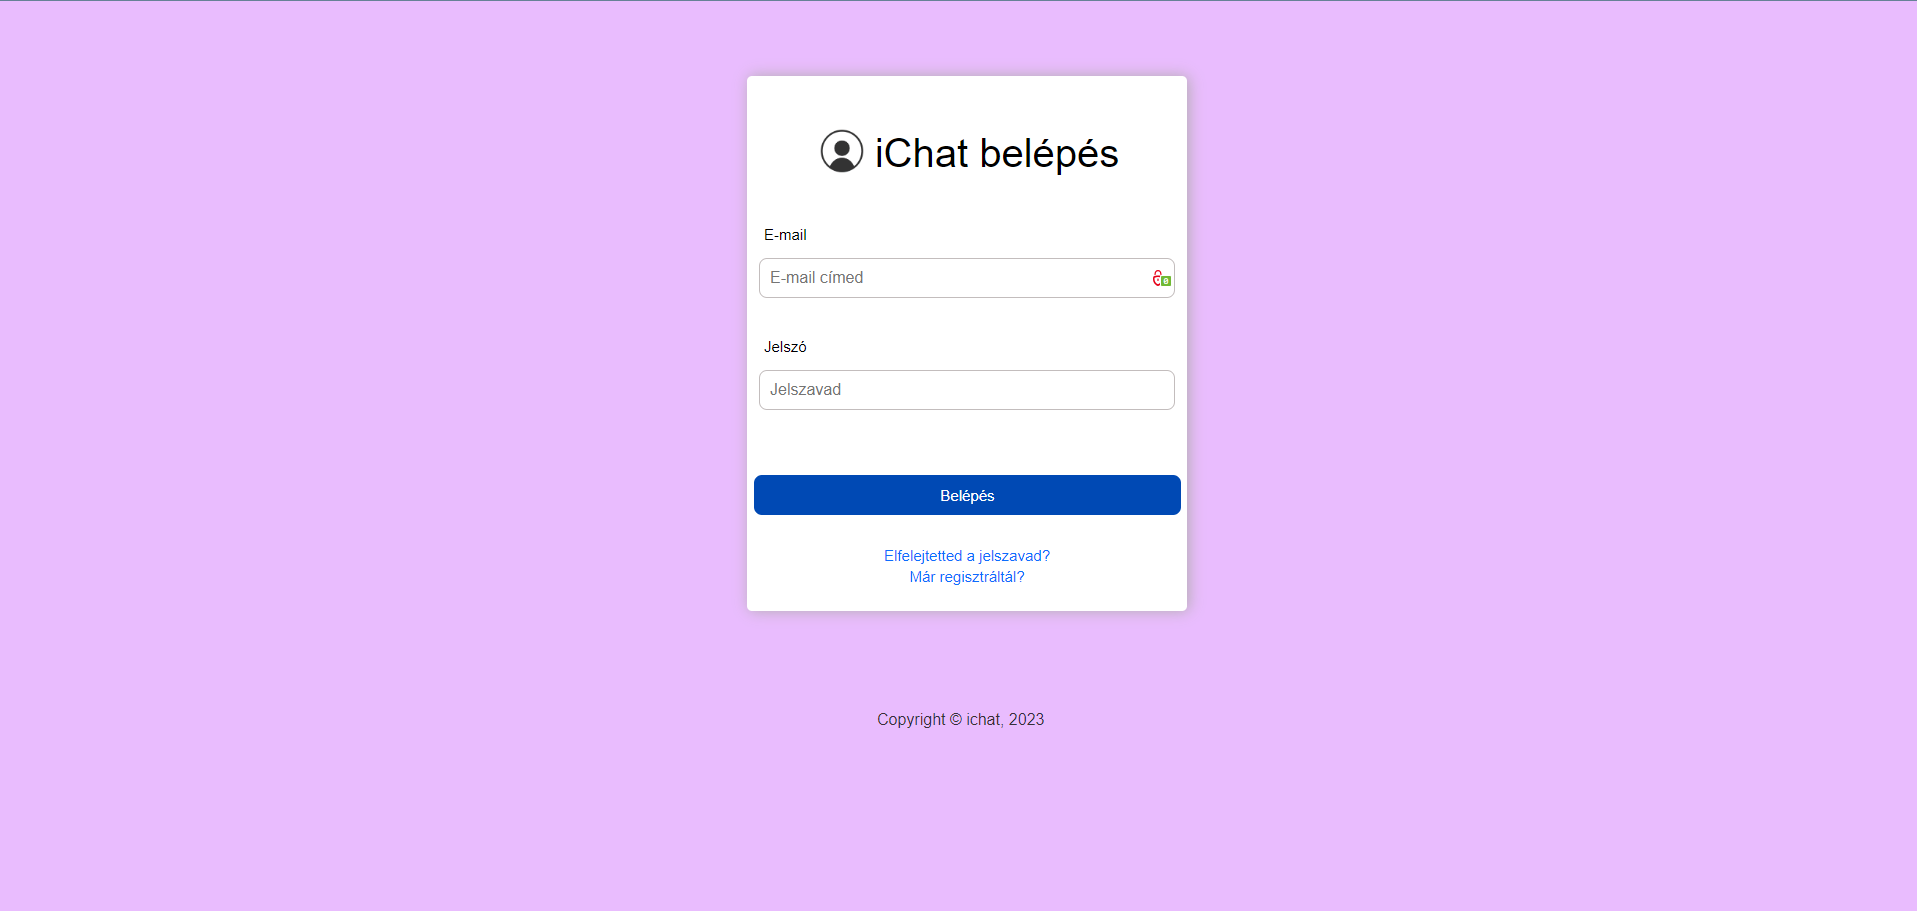
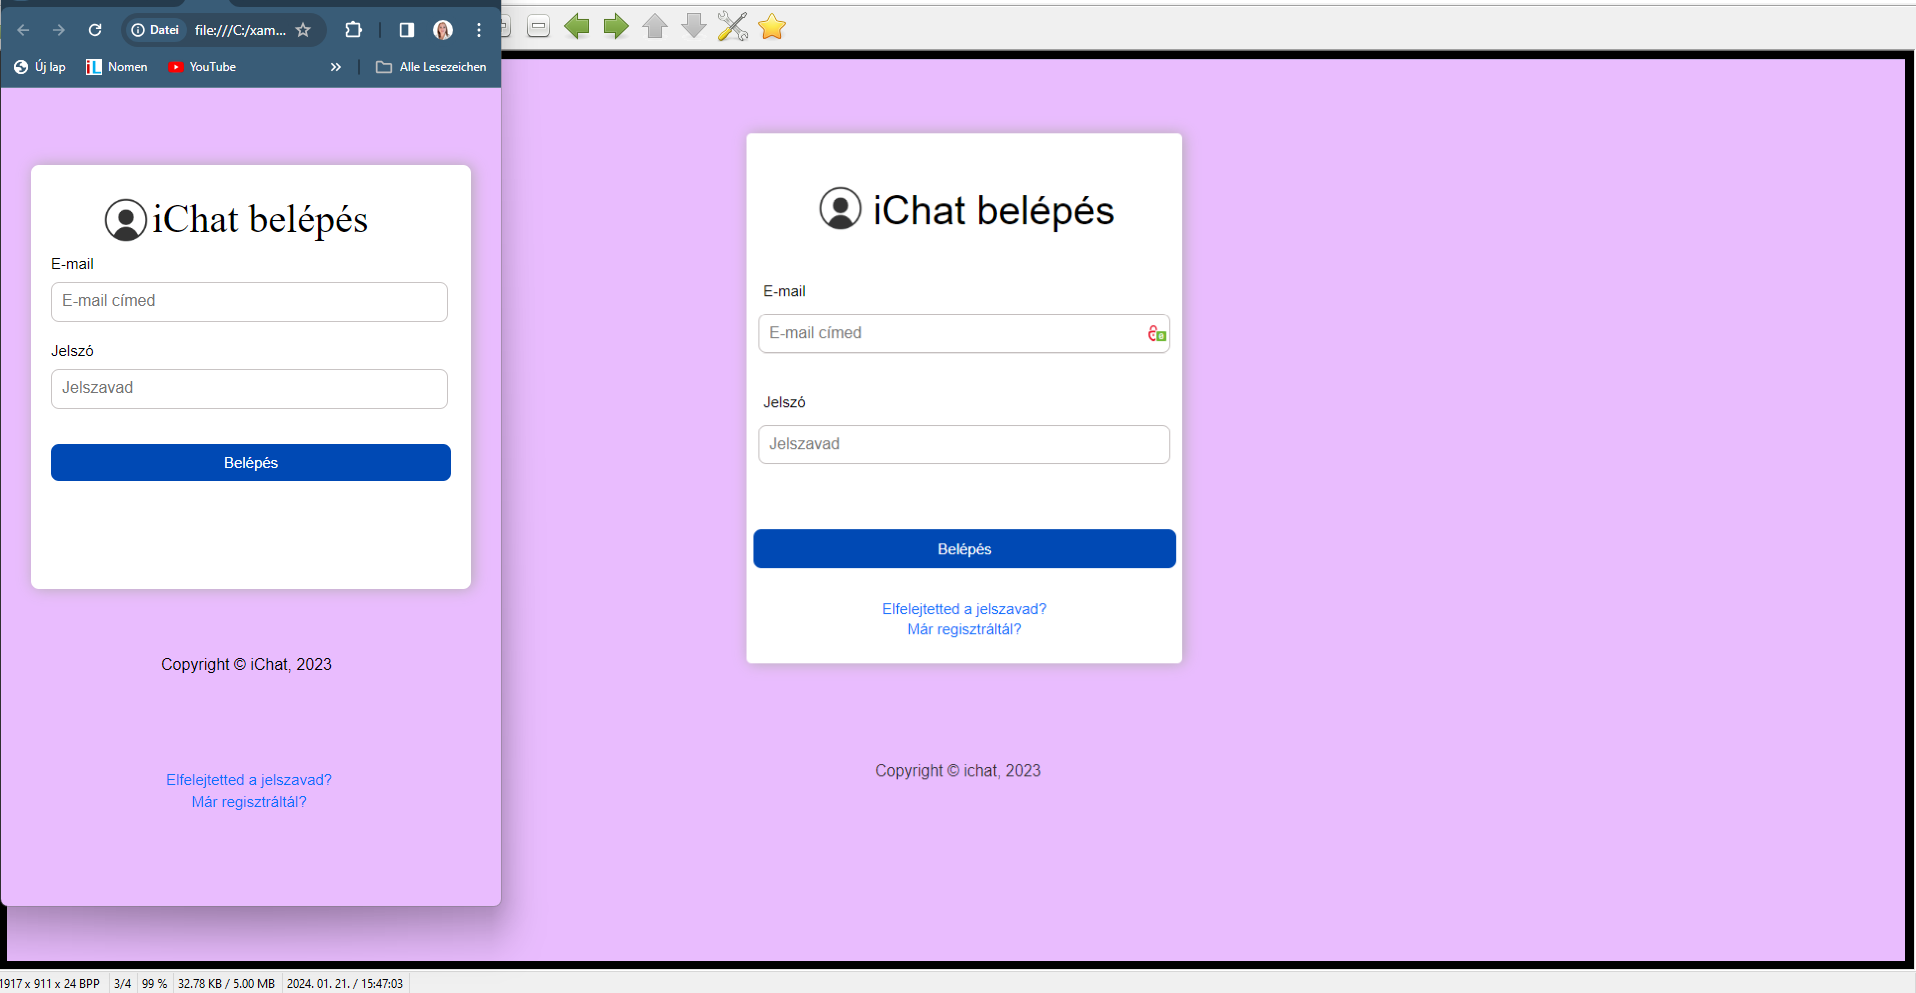
add complett korrection

diff --git a/login.css b/login.css
@@ -13,21 +13,23 @@ body{
     padding:2px;
     background:#E9BCFE;
     background-size: cover;
-    padding-top:60px;
-    padding-bottom:290px;
+    padding-top:70px;
+    padding-bottom:310px;
 }
 .container{
     height: 97%;
     max-width: 440px;
     width: 100%;
+    border-radius: 8px;
+    box-shadow:2px 0 15px 0 rgb(176, 172, 172);
     background: #fff;
     padding: 20px;  
     margin: 0 28px;  
-    padding-right:5px;  
+    padding-right:2px;  
     
 }
 .form-title{
-    margin-top:25px;
+    margin-top:20px;
     font-weight: 100;
     padding-bottom: 40px; 
     padding-top:30px;
@@ -38,15 +40,20 @@ h6{
     font-size: 40px;
     text-align: center;
 }
-.main-user-info{
-    display: flex;
-    flex-wrap: wrap;
-    justify-content: space-between;
-    padding: 20px 0
+.container .logo {
+    position: relative;
+    height: 100px;
 }
-.main-user-box:nth-child(2n){
-    justify-content: end;
+.container .logo img {
+    position: absolute;
+    top: 70%;
+    width: 50px;
+    height: 50px;
+    margin:0 0 0 50px;
+    transform: translateY(-80%);  
 }
+
+
 .user-input-box{
     display: flex;
     flex-wrap: wrap;
@@ -67,14 +74,14 @@ h6{
     width: 95%;
     padding: 0 10px;
     border-radius: 8px;
-    border-color: rgb(143, 140, 140);
-    border:0.5px solid  rgb(143, 140, 140) ;
-    border-left:0.5px solid rgb(143, 140, 140);
+    border-color: rgb(201, 196, 196);
+    border:0.5px solid  rgb(201, 196, 196);
+    border-left:0.5px solid rgb(201, 196, 196);
     
 }
 
 .form-submit-btn{
-    margin-top: 40px; 
+    margin-top: 30px; 
 }
 .form-button-btn input{
     display: inline-block;
@@ -90,9 +97,9 @@ h6{
 }
 .more-details{
     position:absolute;
-    margin-top:280px;
+    margin-top:10px;
     font-size: 15px;
-    margin-left:100px;
+    margin-left:110px;
     text-align: center;
     justify-content: center;
     padding:5px;
@@ -105,13 +112,28 @@ h6{
 .second{
     margin:5px;
 }
+.footer{
+    position: relative;
+    padding-top:150px;
+    padding-left:110px;
+}
 @media(max-width: 600px){
     .conatiner{
         min-width: 280px;
         overflow: auto;
     }
+    .form-title{
+        margin-top:-20px;
+        
+
+    }
+    .main-user-info{
+        margin-top: -20px;
+        width: 100%;
+    }
+
     .user-input-box{
-        margin-bottom: 20px;
+        margin-bottom: -10px;
         width: 100%;
     }
     
@@ -120,5 +142,7 @@ h6{
         max-height: 380px;
         overflow: auto;
     }
-   
+   .more-details{
+        margin-top:260px;
+   }
 }

diff --git a/reglap.css b/reglap.css
@@ -65,9 +65,9 @@ h6{
     width: 95%;
     padding: 0 10px;
     border-radius: 8px;
-    border-color: rgb(143, 140, 140);
-    border:0.5px solid  rgb(143, 140, 140) ;
-    border-left:0.5px solid rgb(143, 140, 140);
+    border-color: rgb(201, 196, 196);
+    border:0.5px solid  rgb(201, 196, 196) ;
+    border-left:0.5px solid rgb(201, 196, 196);
     
 }
 select {
@@ -75,9 +75,9 @@ select {
     width: 95%;
     padding: 0 10px;
     border-radius: 8px;
-    border-color: rgb(143, 140, 140);
-    border:0.5px solid  rgb(143, 140, 140) ;
-    border-left:0.5px solid rgb(143, 140, 140);
+    border-color: rgb(201, 196, 196);
+    border:0.5px solid  rgb(201, 196, 196) ;
+    border-left:0.5px solid rgb(201, 196, 196);
 }
 .gender-title{
     margin-top: 5px;
@@ -120,6 +120,9 @@ select {
 .more-details a{
     text-decoration: none;
     color:#0D6EFD;
+}
+.second{
+    margin:5px;
 }
 @media(max-width: 600px){
     .conatiner{

diff --git a/login.html b/login.html
@@ -10,8 +10,12 @@
 </head>
 <body>
     <div class="container">
-        <h6 class="form-title"><i class="fa-solid fa-circle-user"></i> iChat belépés</h6>        
-            <form action="#">
+        <div class="logo">
+        <h6 class="form-title"> iChat belépés</h6>        
+        
+            <img src="./login.icon.png" alt="login icon">
+        </div>
+        <form action="#">
             <div class="main-user-info">
                 <div class="user-input-box">
                     <label for="">E-mail</label>
@@ -34,5 +38,6 @@
             
         </form>
     </div>
+    <div class="footer">Copyright &copy; iChat, 2023</div>
 </body>
 </html>

diff --git a/reglap.html b/reglap.html
@@ -76,9 +76,10 @@
             </div>
             <div class="more-details">
                 <a href="#">Elfelejtetted a jelszavad? </a>
-                <br>
-                <a href="#">"Már regisztráltál?"</a>
-                </div>
+                <div  class="second">
+                <a href="#">Már regisztráltál?</a>
+            </div>
+            </div>
             
         </form>
     </div>
